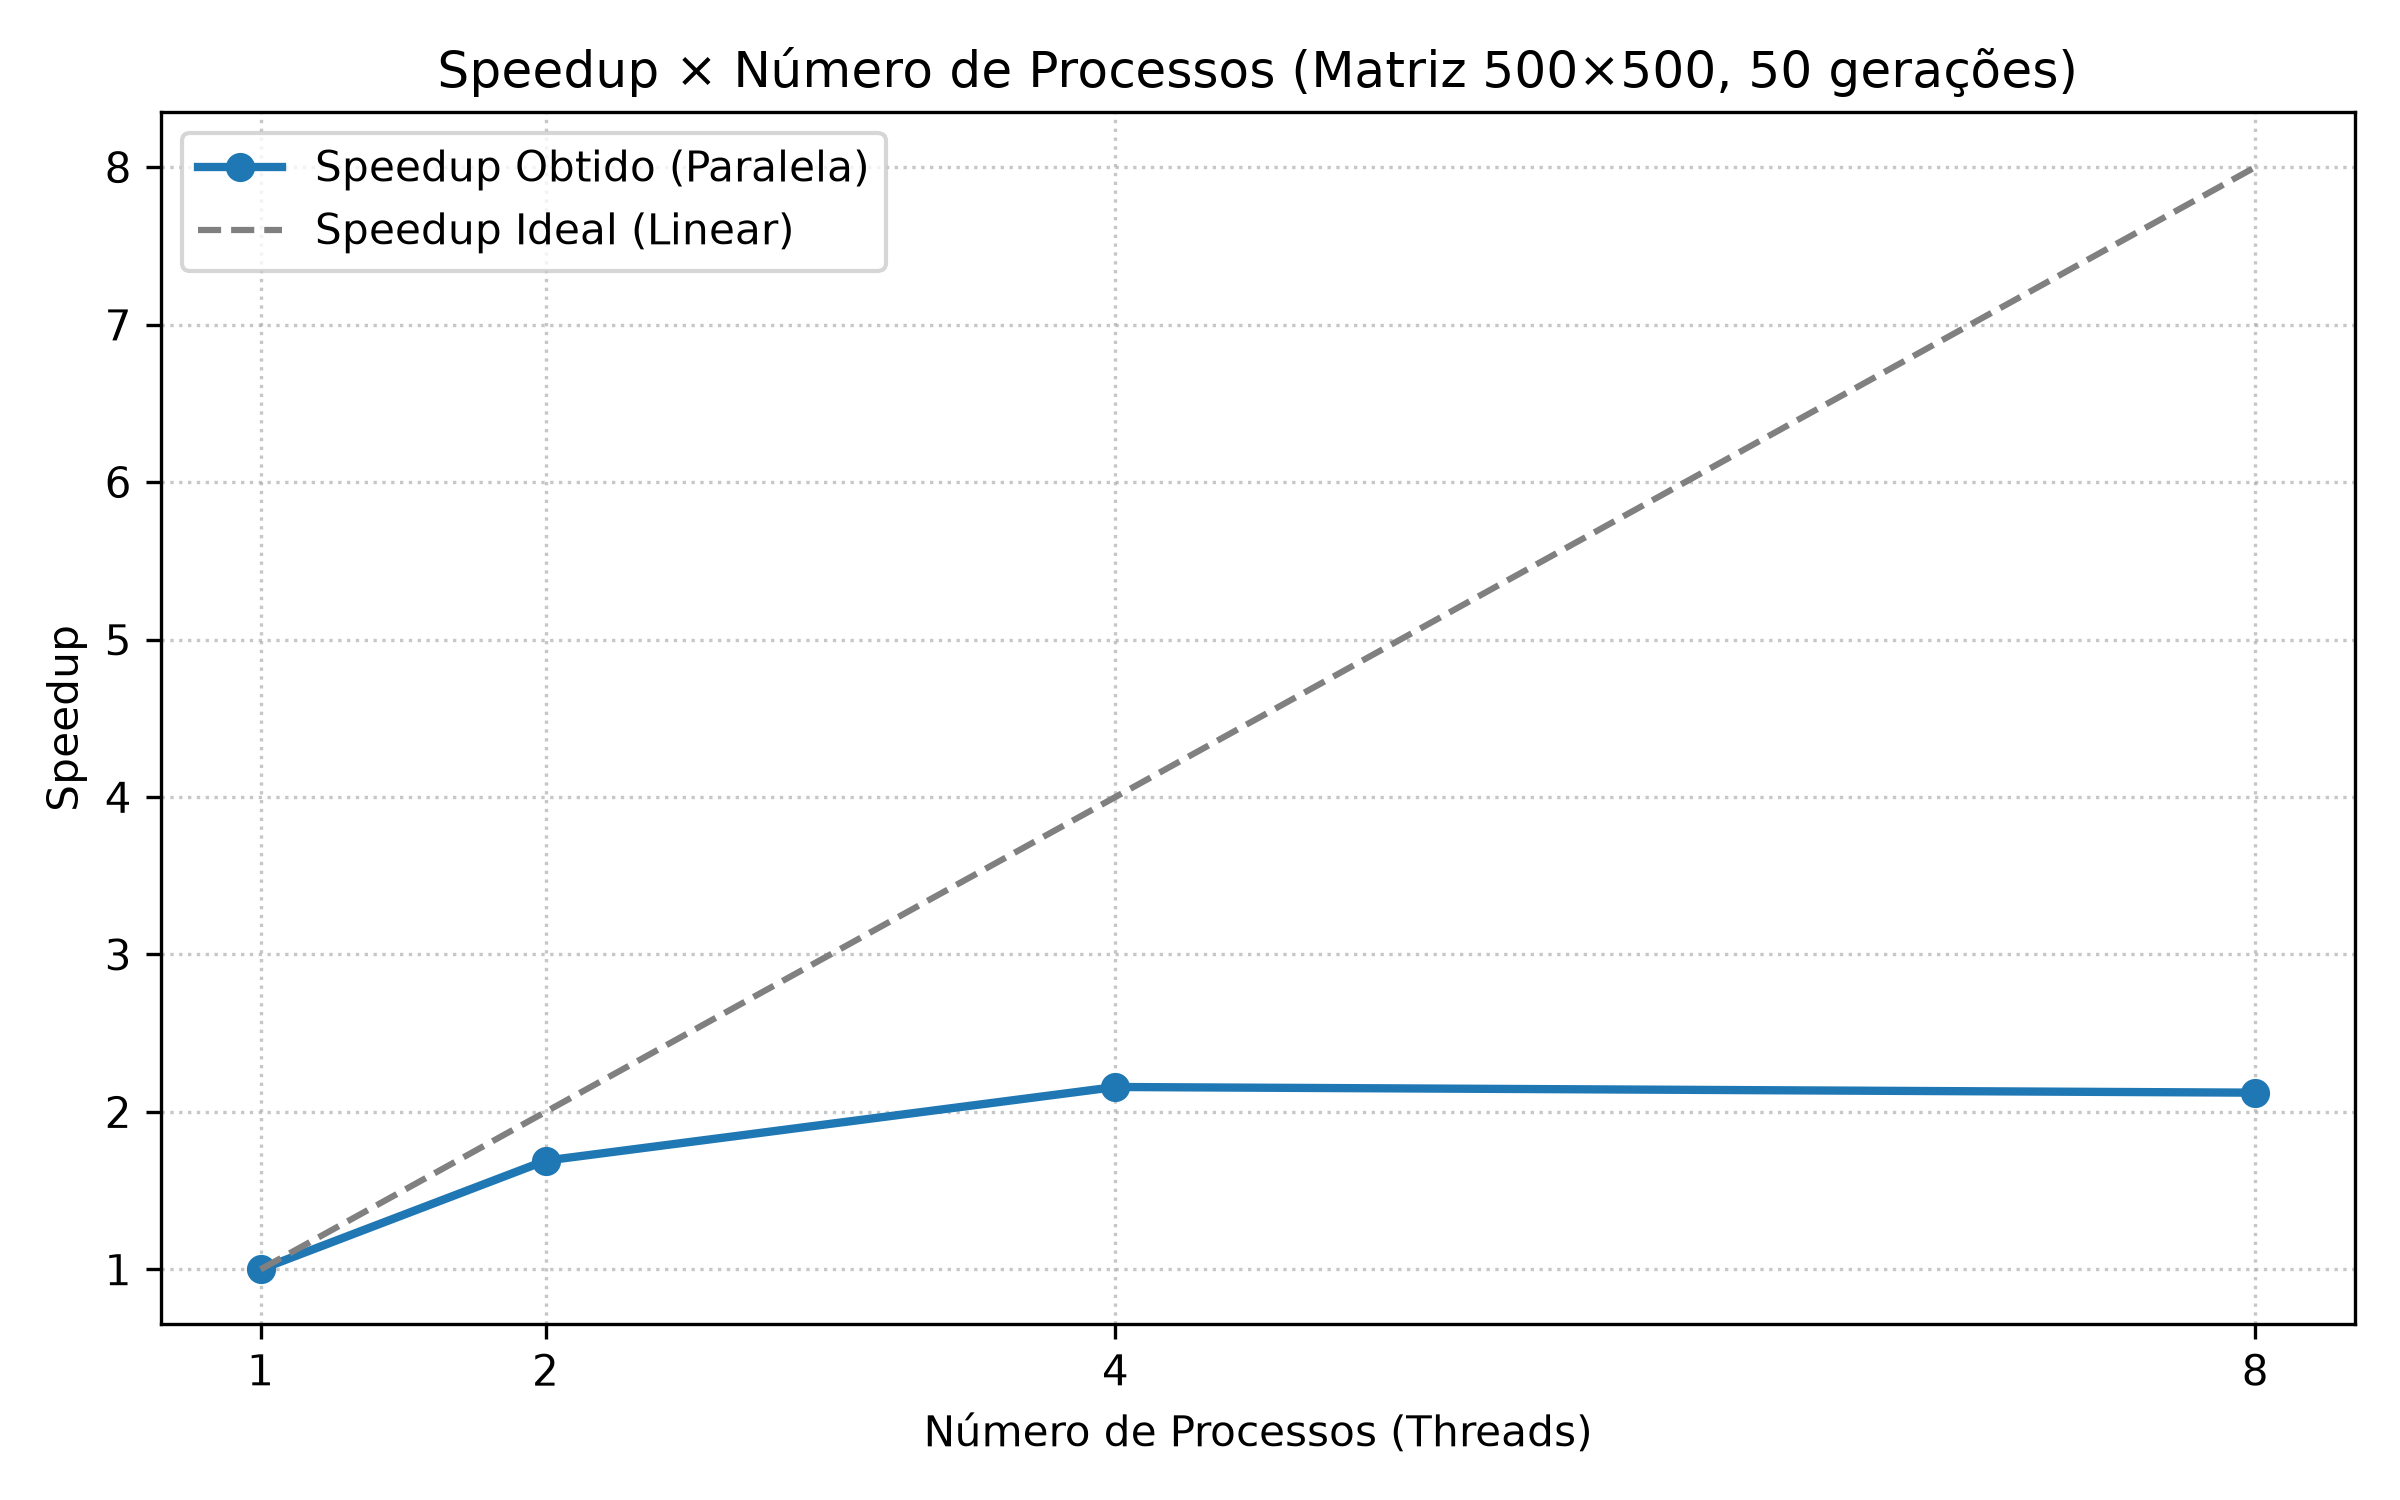
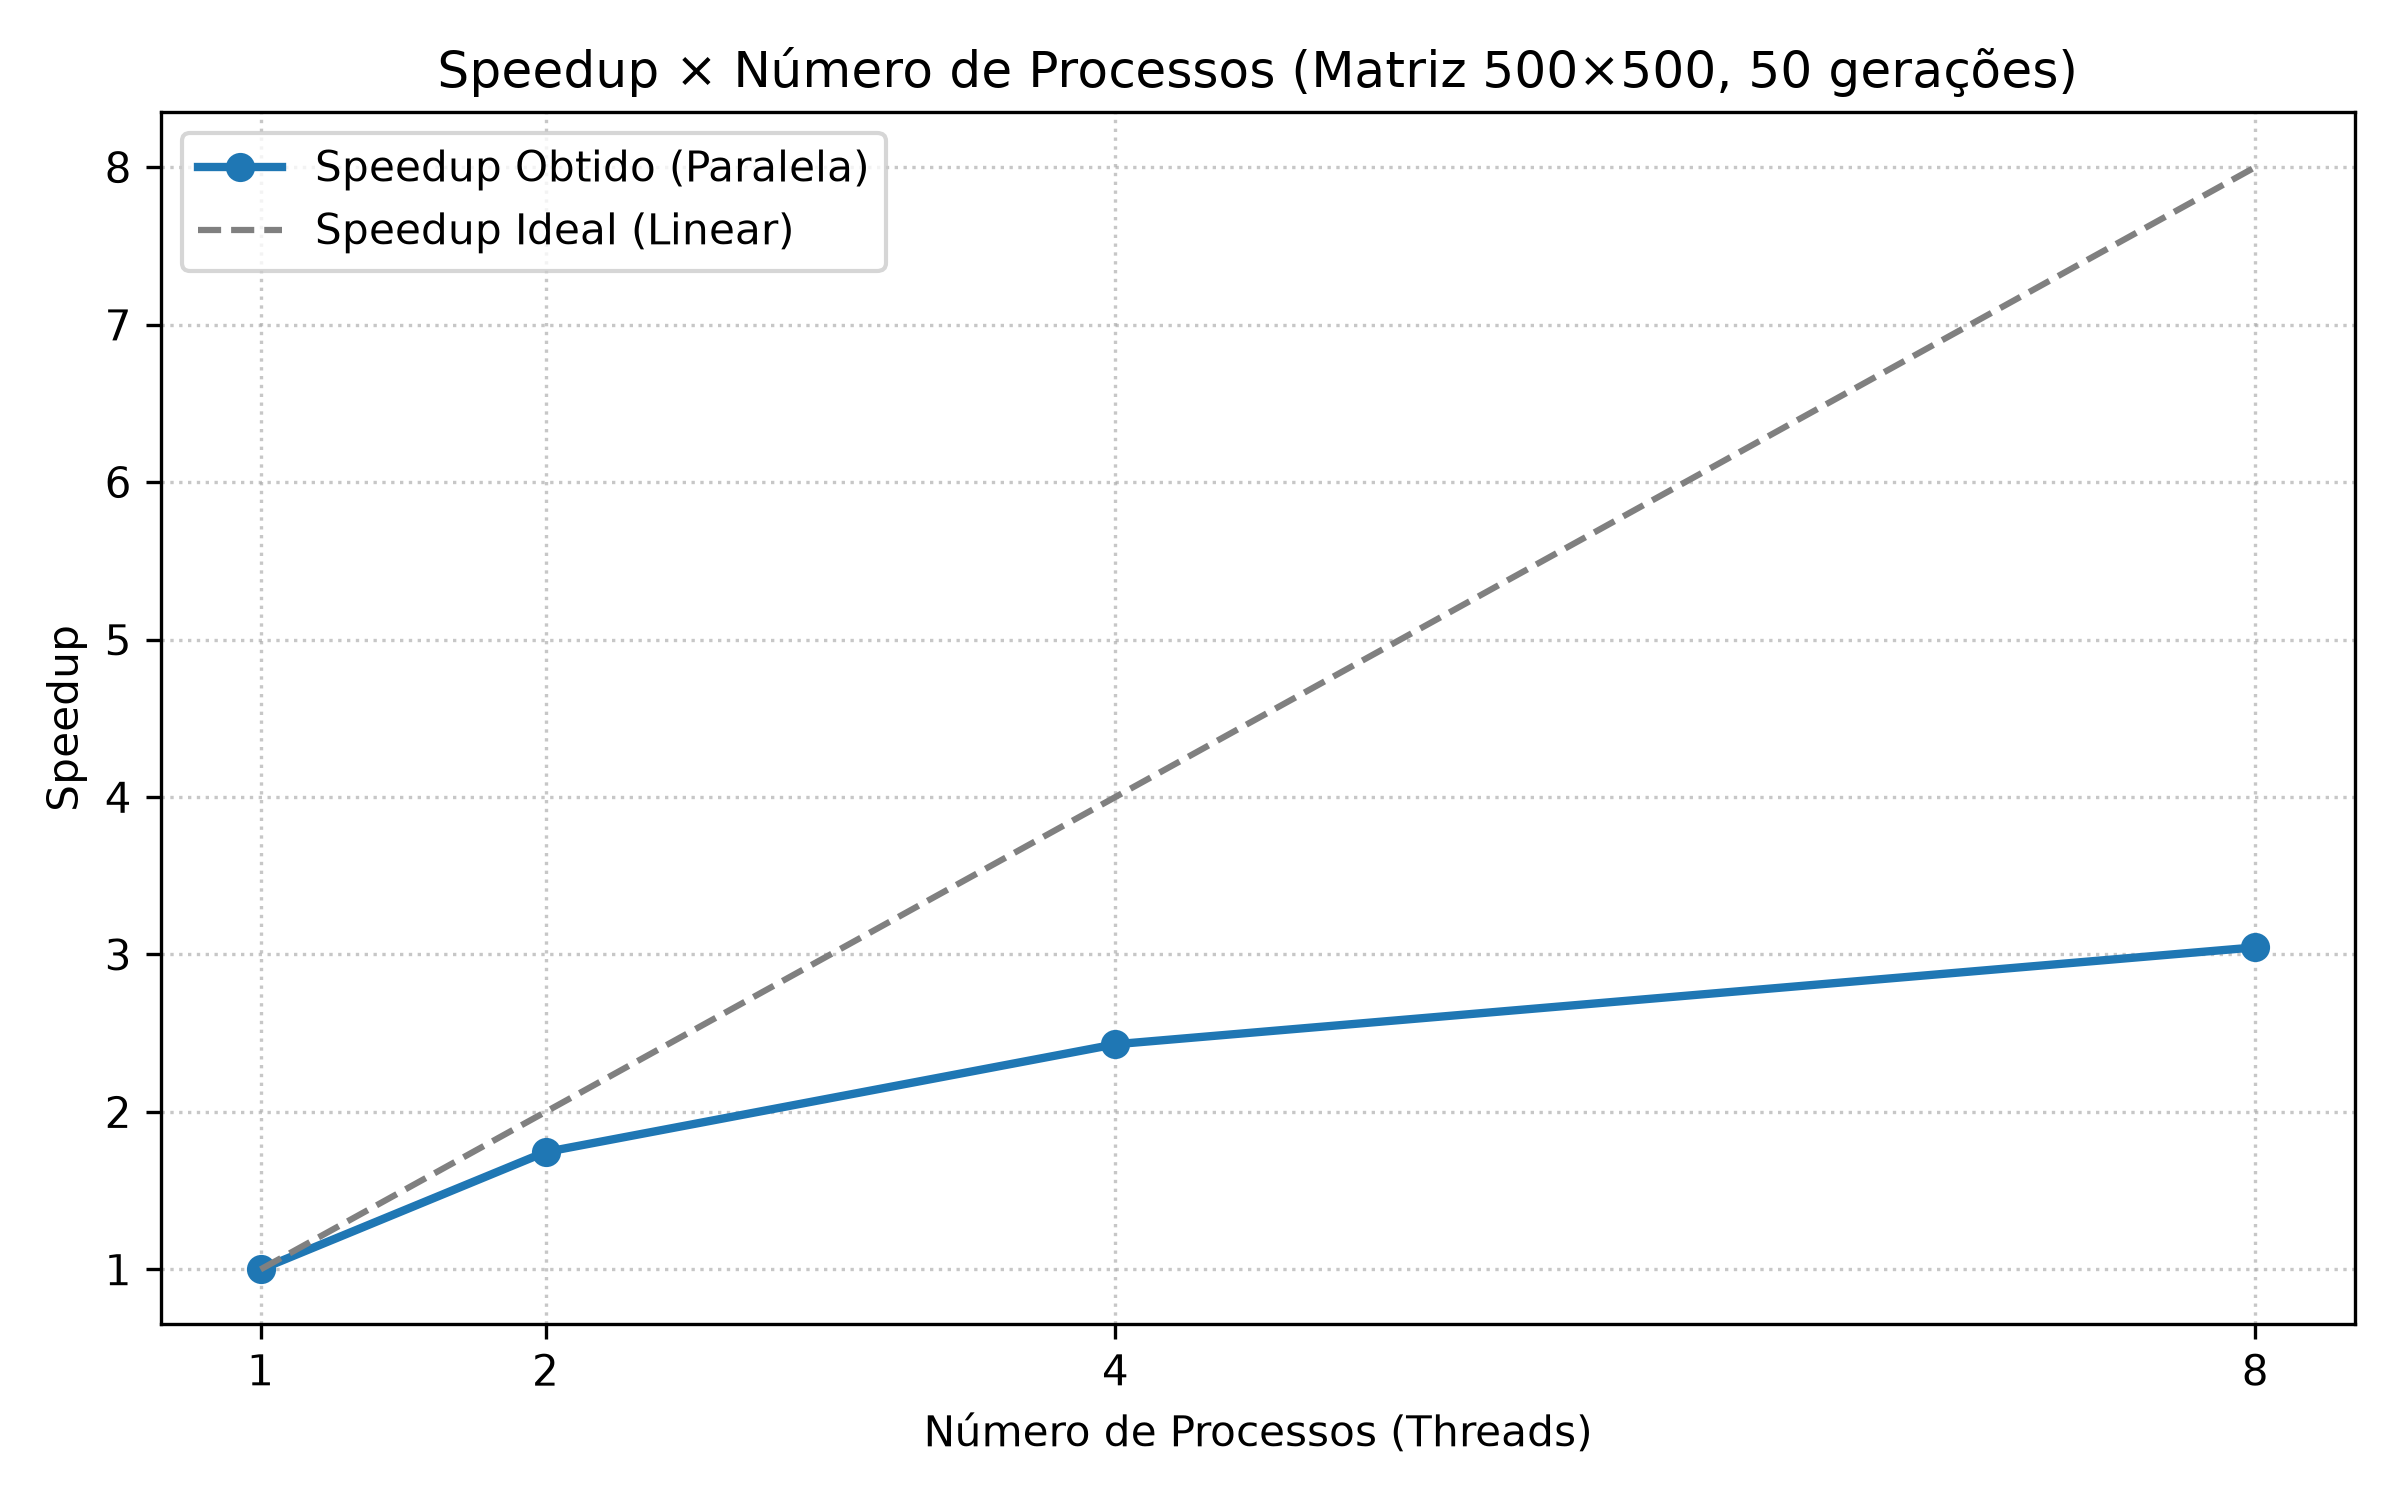
fix(experimentos): corrige fatiamento de halo na paralela e atualiza métricas
- Ajusta rodar_paralela() para enviar apenas a fatia com halo em vez da grade inteira
- Reexecuta benchmarks da paralela e recalcula métricas e gráficos em resultados/
- Atualiza tabelas de desempenho, hardware e total de 114 execuções no README.md

diff --git a/experimentos/rodar_experimentos.py b/experimentos/rodar_experimentos.py
@@ -170,8 +170,8 @@ def rodar_sequencial(tam_matriz, geracoes, pct_espalhadores):
 # 3. EXECUÇÃO PARALELA (MULTIPROCESSING)
 # ==============================================================================
 def _worker_pool(args):
-    grade, inicio, fim, total_linhas, seed_bloco = args
-    return processar_bloco(grade, inicio, fim, total_linhas, seed_bloco=seed_bloco)
+    grade_com_halo, inicio, fim, total_linhas, seed_bloco = args
+    return processar_bloco(grade_com_halo, inicio, fim, total_linhas, seed_bloco=seed_bloco)
 
 
 def rodar_paralela(tam_matriz, geracoes, pct_espalhadores, n_processos):
@@ -182,7 +182,13 @@ def rodar_paralela(tam_matriz, geracoes, pct_espalhadores, n_processos):
     with multiprocessing.Pool(processes=n_processos) as pool:
         for g in range(geracoes):
             tarefas = [
-                (grade, ini, fim, tam_matriz, SEMENTE_PADRAO + g * 100 + idx)
+                (
+                    grade[max(0, ini - 1) : min(tam_matriz, fim + 1)],
+                    ini,
+                    fim,
+                    tam_matriz,
+                    SEMENTE_PADRAO + g * 100 + idx,
+                )
                 for idx, (ini, fim) in enumerate(blocos)
             ]
             fatias = pool.map(_worker_pool, tarefas)
@@ -417,11 +423,3 @@ def main():
                 f.flush()
 
     print(f"\nConcluído! Resultados salvos em '{arquivo_saida}'.")
-
-
-if __name__ == "__main__":
-    multiprocessing.freeze_support()
-    if len(sys.argv) >= 3 and sys.argv[1] == "--worker":
-        _modo_worker_tcp(int(sys.argv[2]))
-    else:
-        main()

diff --git a/README.md b/README.md
@@ -41,7 +41,7 @@ FakeNews_SistemasDistribuidos/
 │   └── analisar_resultados.py        # Análise estatística (pandas) e gráficos (matplotlib)
 ├── resultados/
 │   ├── ambiente_experimental.json    # Metadados de hardware e SO coletados
-│   ├── experimentos.csv              # Dados brutos das 78 execuções experimentais
+│   ├── experimentos.csv              # Dados brutos das 114 execuções experimentais
 │   ├── resumo_metricas.csv           # Médias e desvios padrão agrupados por cenário
 │   └── graficos/                     # Gráficos PNG gerados para o relatório
 ├── requirements.txt                  # Dependências Python para análise e gráficos
@@ -113,19 +113,19 @@ python experimentos/analisar_resultados.py
 
 | Dimensão ($N \times N$) | Sequencial (s) | Paralela — 4 proc. (s) | Distribuída — 4 workers (s) | Speedup Paralela | Speedup Distribuída |
 | :--- | :---: | :---: | :---: | :---: | :---: |
-| **100 × 100** | 0,3507 | 0,3946 | 0,2255 | 0,89× | 1,56× |
-| **500 × 500** | 8,3955 | 4,2577 | 4,4038 | 1,97× | 1,91× |
-| **1000 × 1000** | 33,2224 | 15,6057 | 16,4222 | 2,13× | 2,02× |
-| **2000 × 2000** | 149,5590 | 74,3004 | 91,9155 | 2,01× | 1,63× |
+| **100 × 100** | 0,3507 | 0,4340 | 0,2255 | 0,81× | 1,56× |
+| **500 × 500** | 8,3955 | 4,6087 | 4,4038 | 1,82× | 1,91× |
+| **1000 × 1000** | 33,2224 | 13,4875 | 16,4222 | 2,46× | 2,02× |
+| **2000 × 2000** | 149,5590 | 52,9883 | 91,9155 | 2,82× | 1,63× |
 
 ### 6.2. Escalabilidade por Processos na Versão Paralela (Matriz 500×500, 50 gerações)
 
 | Processos ($N$) | Tempo Médio (s) | Speedup | Eficiência (%) |
 | :---: | :---: | :---: | :---: |
-| **1** | 9,0619 | 1,00× | 100,00% |
-| **2** | 5,3605 | 1,69× | 84,52% |
-| **4** | 4,1987 | 2,16× | 53,96% |
-| **8** | 4,2700 | 2,12× | 26,53% |
+| **1** | 9,1745 | 1,00× | 100,00% |
+| **2** | 5,2576 | 1,75× | 87,25% |
+| **4** | 3,7760 | 2,43× | 60,74% |
+| **8** | 3,0129 | 3,05× | 38,06% |
 
 ### 6.3. Escalabilidade por Workers na Versão Distribuída (Matriz 500×500, 50 gerações)
 
@@ -137,9 +137,9 @@ python experimentos/analisar_resultados.py
 | **4** | 4,4125 | 2,53× | 63,14% |
 
 ### 6.4. Principais Gargalos Identificados
-1. **Matrizes pequenas em paralelo (`100 × 100`):** A versão paralela ($0,3946\text{ s}$) foi mais lenta que a sequencial ($0,3507\text{ s}$) porque o custo de criação dos processos (`spawn` no Windows) e serialização da grade supera o tempo de cálculo de apenas 10.000 células.
-2. **Saturação acima de 4 processos:** Como o processador possui **4 núcleos físicos**, escalar de 4 para 8 processos não trouxe ganho de tempo ($4,20\text{ s} \to 4,27\text{ s}$) e reduziu a eficiência de $53,96\%$ para $26,53\%$ devido à contenção de CPU e cópia de memória entre processos.
-3. **Custo de comunicação na versão distribuída:** Em matrizes grandes ($2000 \times 2000$), a versão distribuída ($91,92\text{ s}$) fica atrás da paralela ($74,30\text{ s}$) devido à serialização JSON e à transferência síncrona das fatias e bordas (*halos*) via Sockets TCP a cada geração.
+1. **Matrizes pequenas em paralelo (100 × 100):** A versão paralela ($0,4340\text{ s}$) foi mais lenta que a sequencial ($0,3507\text{ s}$) porque o custo de criação dos processos (spawn no Windows) e transferência das fatias supera o tempo de cálculo de apenas 10.000 células.
+2. **Queda de eficiência acima de 4 processos:** Como o processador possui 4 núcleos físicos, escalar de 4 para 8 processos reduz a eficiência de $60,74\%$ para $38,06\%$ devido ao compartilhamento de recursos entre threads lógicas (SMT) e ao overhead de sincronização entre gerações.
+3. **Custo de comunicação na versão distribuída:** Em matrizes grandes ($2000 \times 2000$), a versão distribuída ($91,92\text{ s}$) fica atrás da paralela ($52,99\text{ s}$) devido à serialização JSON, à contenção dos 4 workers na mesma CPU e à transferência síncrona das fatias e bordas (halos) via Sockets TCP a cada geração.
 
 ---
 
@@ -156,3 +156,5 @@ Compress-Archive -Path sequential, parallel, distributed, experimentos, resultad
 ## 8. Referências
 * DALEY, D. J.; KENDALL, D. G. *Epidemics and Rumours*. Nature, v. 204, p. 1118, 1964.
 * Documentação oficial do Python 3.13 — módulos `multiprocessing` e `socket`.
+* FERRARA, E. et al. The rise of social bots. Communications of the ACM, v. 59, n. 7, p. 96–104, 2016.
+
